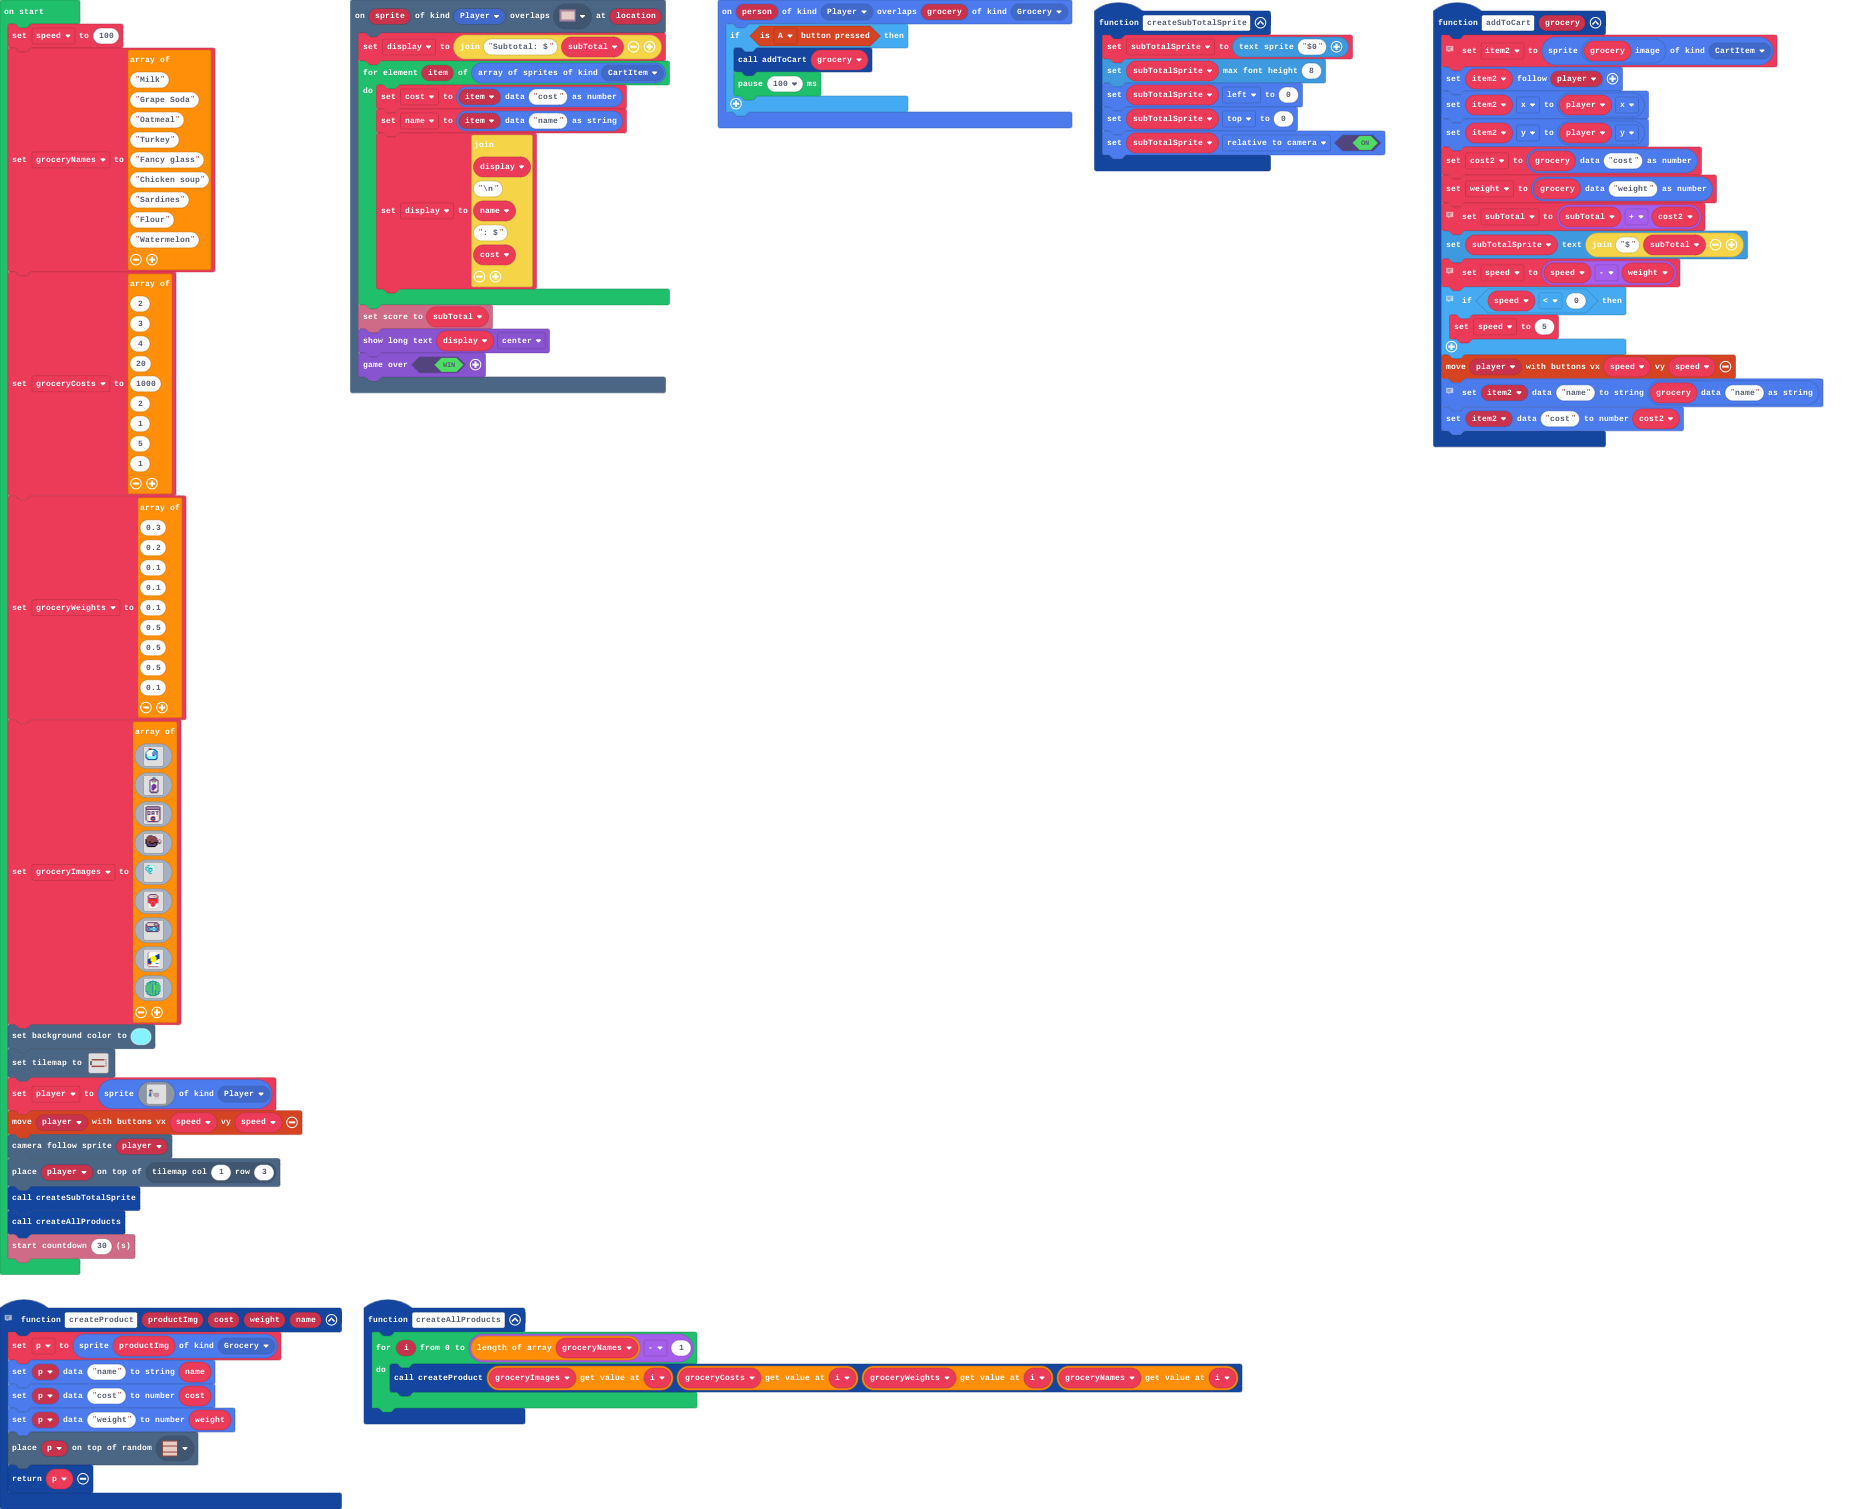
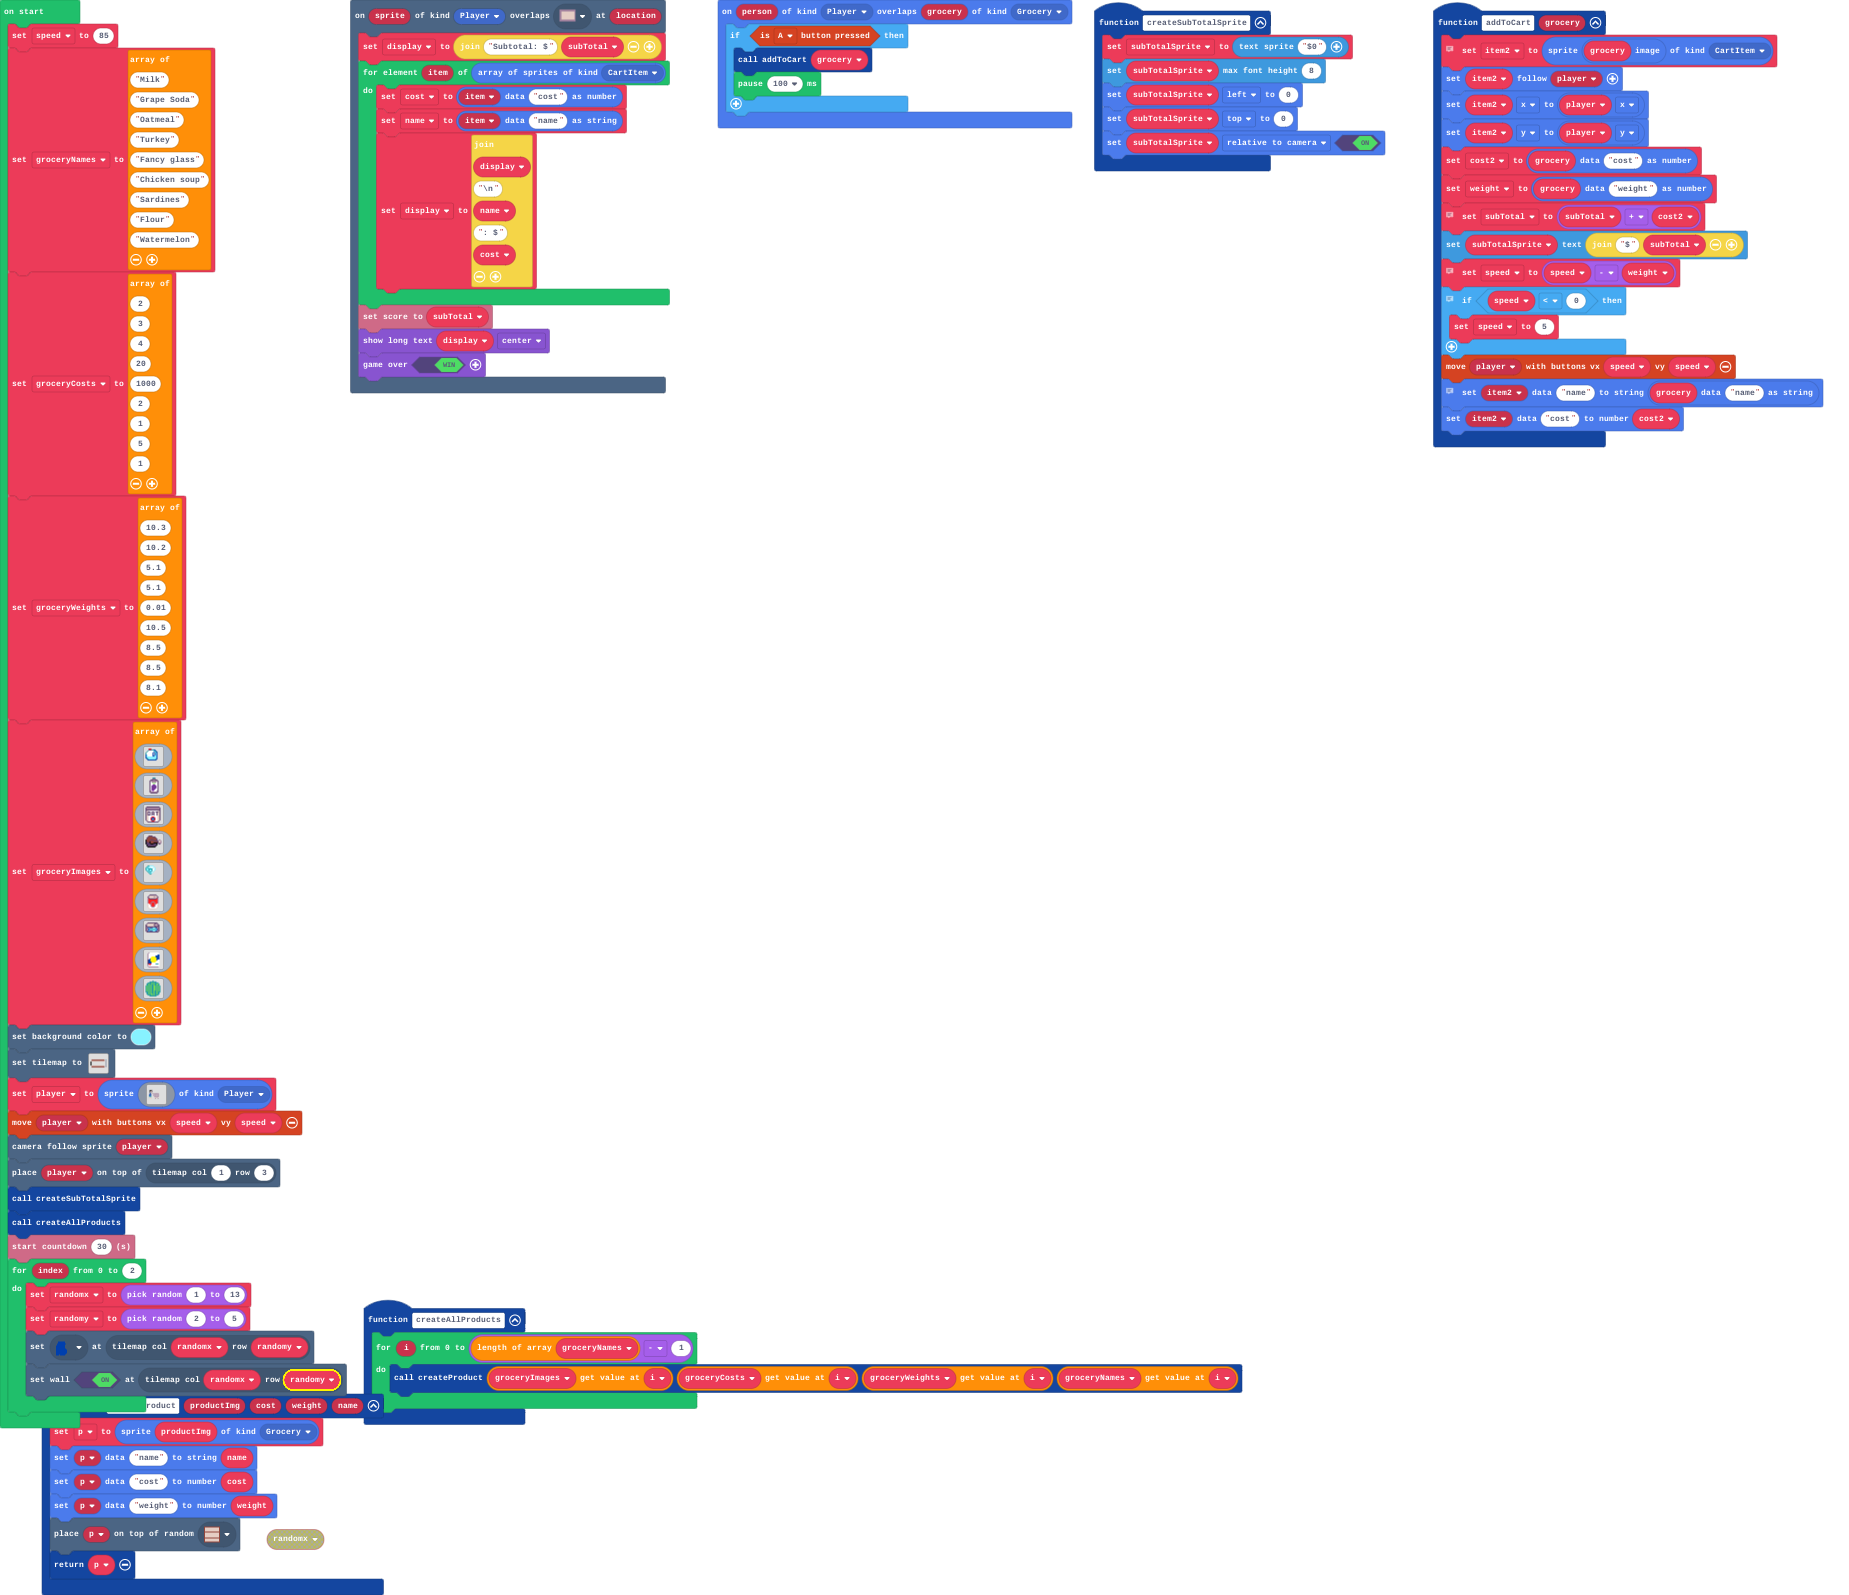
Update pxt.json, main.blocks, main.ts, tilemap.g.jres, tilemap.g.ts

diff --git a/main.ts b/main.ts
@@ -71,13 +71,15 @@ let cost = 0
 let subTotal = 0
 let display = ""
 let subTotalSprite: TextSprite = null
+let randomy = 0
+let randomx = 0
 let player: Sprite = null
 let groceryImages: Image[] = []
 let groceryWeights: number[] = []
 let groceryCosts: number[] = []
 let groceryNames: string[] = []
 let speed = 0
-speed = 100
+speed = 85
 groceryNames = [
 "Milk",
 "Grape Soda",
@@ -101,15 +103,15 @@ groceryCosts = [
 1
 ]
 groceryWeights = [
-0.3,
-0.2,
-0.1,
-0.1,
-0.1,
-0.5,
-0.5,
-0.5,
-0.1
+10.3,
+10.2,
+5.1,
+5.1,
+0.01,
+10.5,
+8.5,
+8.5,
+8.1
 ]
 groceryImages = [
 img`
@@ -301,3 +303,9 @@ tiles.placeOnTile(player, tiles.getTileLocation(1, 3))
 createSubTotalSprite()
 createAllProducts()
 info.startCountdown(30)
+for (let index = 0; index <= 2; index++) {
+    randomx = randint(1, 13)
+    randomy = randint(2, 5)
+    tiles.setTileAt(tiles.getTileLocation(randomx, randomy), assets.tile`puddle`)
+    tiles.setWallAt(tiles.getTileLocation(randomx, randomy), true)
+}

diff --git a/tilemap.g.ts b/tilemap.g.ts
@@ -22,6 +22,8 @@ namespace myTiles {
     export const tile9 = image.ofBuffer(hex``);
     //% fixedInstance jres blockIdentity=images._tile
     export const tile10 = image.ofBuffer(hex``);
+    //% fixedInstance jres blockIdentity=images._tile
+    export const tile11 = image.ofBuffer(hex``);
 
     helpers._registerFactory("tilemap", function(name: string) {
         switch(helpers.stringTrim(name)) {
@@ -72,6 +74,8 @@ namespace myTiles {
             case "tile8":return tile8;
             case "tile9":return tile9;
             case "tile10":return tile10;
+            case "puddle":
+            case "tile11":return tile11;
         }
         return null;
     })
